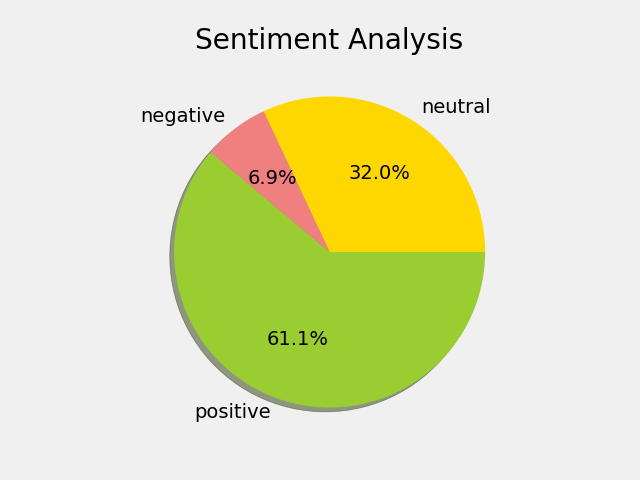
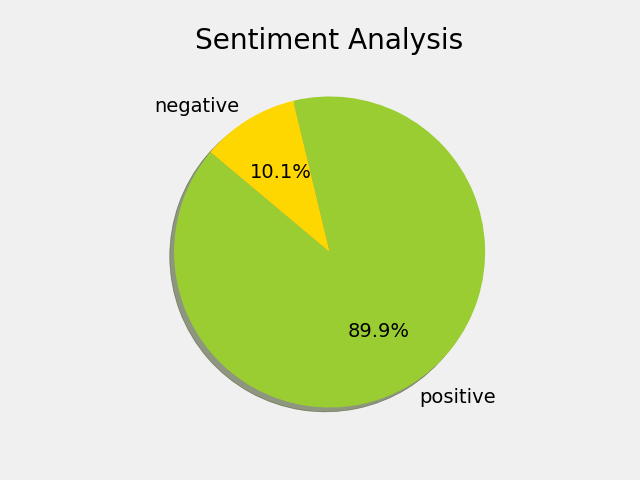
datavis.py - phased out analytics function into valueCounts, added multiple input for sentiment filtering in editDataframe()

diff --git a/datavis.py b/datavis.py
@@ -236,15 +236,13 @@ class Visuals:
 		constrain = input("\nWould you like to constrain analyzed entries? (y or n): ")
 		if constrain == 'y':
 			self.editDataframe()
-		# Sort Values By Date [Delete if Desired]
-		self.df = self.df.sort_values(by='post date-time', ascending=True)
+		self.df = self.df.sort_values(by='post date-time', ascending=True) # Sort Values By Date [Delete if Desired]
 
 		# Clean Tweets and Correct Spellings
 		self.df['account status'] = self.df['account status'].apply(cleanData)
 
 		# Visualization Calls
 		modes = dict(wordCloud=self.wordCloud,
-				analytics=self.analytics,
 				ngrams=self.ngrams,
 				polSub=self.polSub,
 				valueCounts=self.valueCounts,
@@ -282,8 +280,9 @@ class Visuals:
 			self.df = self.df.loc[mask]
 		if 'sentiment' in params:
 			print('Editing sentiment...')
-			sentiment = input("Select Tweet Sentiment (positive, negative, neutral): ")
-			mask = (self.df['account sentiment'] == sentiment)
+			sentiments = input("Select Tweet Sentiments (positive, negative, neutral): ")
+			sentiments = sentiments.split(', ')
+			mask = (self.df['account sentiment'].isin(sentiments))
 			self.df = self.df.loc[mask]
 		print()
 
@@ -455,20 +454,7 @@ class Visuals:
 		plt.savefig('output/visuals/polsub.png')
 		plt.clf()
 
-
-	def analytics(self):
-		'''Completes some general analytics.
-
-		Notes:
-			> Currently Displays Percent Positive and Negative Tweets
-			> More to add in the future.
-			> Maybe Rename Function
-			> maybe combine valueCounts into here as well.
-
-		Outputs
-		-------
-		analytics.png
-			...
+# Old Analytics Code For Reference
 		'''
 		print('Running Analytics...')
 		postweets = self.df[self.df['account sentiment'] == 'positive']
@@ -483,10 +469,10 @@ class Visuals:
 		print(f'Percent Neutral Tweets {neutPercent}%')
 		print(f'Percent Negative Tweets: {negPercent}%')
 		print('Completed Analytics.\n')
-
+		'''
 
 	def valueCounts(self):
-		'''Prints and Plots the Counts of Postive/Negative Tweets
+		'''Prints Counts and Percentages of Subjectivity and Polarity
 
 		Notes:
 			> Requires column addition for subjectivity label.
@@ -496,11 +482,27 @@ class Visuals:
 		valueCounts.png
 			Generated and saved to output folder.
 		'''
-		print('Running valueCounts...')
-		v = self.df['account sentiment'].value_counts()
-		print(f'Value Counts: \n{v}')
-		chart_type = input("Enter the chart type you would like for the output (Ex: bar, pie): ")
 
+		print('Running valueCounts...')
+		
+		# Analysis
+		v = self.df['account sentiment'].value_counts()
+		keys = [str(k) for k in v.keys()]
+		values = [int(v[k]) for k in keys] 
+		d = dict(zip(keys, values))
+		posPercent = round((d.get('positive',0) / self.df.shape[0])*100, 1)
+		neutPercent = round((d.get('neutral',0) / self.df.shape[0])*100, 1)
+		negPercent = round((d.get('negative',0) / self.df.shape[0])*100, 1)
+
+		# Printing
+		print(f'Value Counts: \n{v}')
+		print('Percentages:')
+		print(f'Percent Positive Tweets: {posPercent}%')
+		print(f'Percent Neutral Tweets {neutPercent}%')
+		print(f'Percent Negative Tweets: {negPercent}%')
+
+		# Plotting
+		chart_type = input("Enter the chart type you would like for the output (Ex: bar, pie): ")
 		plt.title('Sentiment Analysis')
 		if(chart_type == "bar"):
 			# Plot and Visualize Sentiment Counts
@@ -510,10 +512,8 @@ class Visuals:
 			plt.savefig('output/visuals/valueCounts_sentiment_bar.png')
 			plt.clf()
 		if(chart_type == "pie"):
-			labels = [str(k) for k in v.keys()]
-			sizes = [int(v[l]) for l in labels]
 			colors = ['yellowgreen', 'gold', 'lightcoral']
-			plt.pie(sizes, labels=labels, colors=colors,
+			plt.pie(values, labels=keys, colors=colors,
 				autopct='%1.1f%%', shadow=True, startangle=140)
 			plt.savefig('output/visuals/valueCounts_sentiment_pie.png')
 			plt.axis('equal')
@@ -522,7 +522,7 @@ class Visuals:
 		print('Completed valueCounts.\n')
 
 		# Plot and Visualize Subjectivity Counts
-		'''
+		r'''
 		v = self.df['account subjectivity'].value_counts()
 		print(f'Value Counts: \n{v}')
 		plt.title('Subjectivity Analysis')

diff --git a/main.py b/main.py
@@ -48,8 +48,7 @@ def visualsStart():
     print("(2) ngrams")
     print("(3) polSub (WIP)")
     print("(4) valueCounts")
-    print("(5) analytics")
-    print("(6) freqGraph\n")
+    print("(5) freqGraph\n")
     visType = input("Choose Desired Visualizations (Separate By Commas): ")
     print("\nAvailable Files [Please Do Not Include Extension in Entry (.csv)]: ")
     stream = os.popen('cd output && ls *.csv') # or *.db
